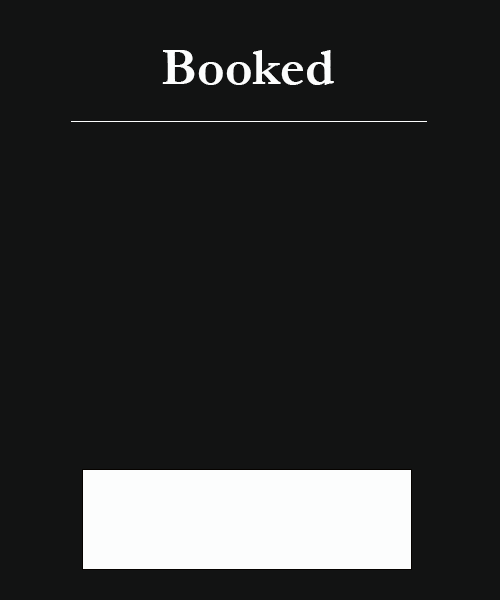
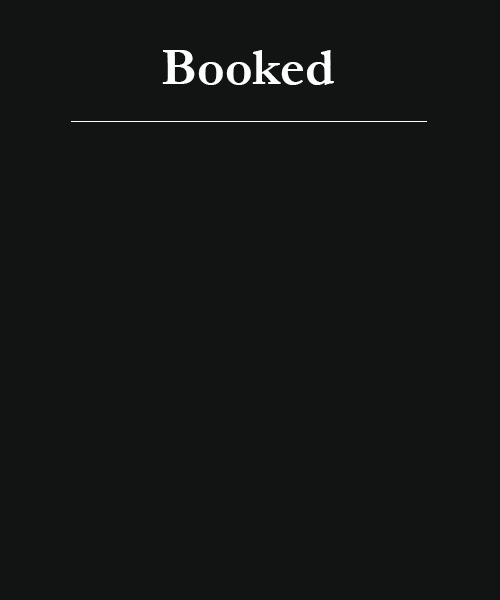
chased down some bugs and made progress on GUIs

Changed region(s): [[0.15, 0.78, 0.84, 0.96]]

diff --git a/OpenerGUI.java b/OpenerGUI.java
@@ -1,81 +1,68 @@
 import java.io.*;
-import java.util.concurrent.Flow;
 import java.awt.*;
 import java.awt.Image;
-import javax.imageio.ImageIO;
 import javax.swing.ImageIcon;
 import javax.swing.JFrame;
 import javax.swing.JLabel;
-import javax.swing.JPanel;
-import javax.swing.JSpinner;
 import javax.swing.JTextField;
-import javax.swing.JTextPane;
-
-import java.awt.Toolkit;
 
 public class OpenerGUI extends JFrame {
     String customerID = "#####";
     int timeBooked;
-    BookButton bookButton = new BookButton(this.customerID,this);
+    Customer customer = new Customer(customerID);
+    BookButton bookButton = new BookButton(this.customer, this, this);
     final ImageIcon backgroundIcon = new ImageIcon("PowerZoneOpenerScreen.png");
     Image backgroundImage = backgroundIcon.getImage();
-    Image background;
     JTextField textField = new JTextField("Here");
     JLabel myJLabel = new JLabel(backgroundIcon);
     File font_file = new File("DS-DIGI.TTF");
     Font digiFont = new Font("Serif", Font.PLAIN, 30);
-    Color fontColor = new Color(15,160,157);
+    Color fontColor = new Color(15, 160, 157);
     JTextField timeSelect = new JTextField("15");
 
-    private void setTextLocation(){
-        this.textField.setBounds(240,620,420,70);
+    private void setTextLocation() {
+        this.textField.setBounds(240, 620, 420, 70);
         this.textField.setOpaque(false);
         this.textField.setBorder(null);
         this.textField.setFont(digiFont);
         this.textField.setForeground(fontColor);
     }
 
-    private void setTextLocationTimeSelect(){
-        this.timeSelect.setSize(420,70);
+    private void setTextLocationTimeSelect() {
+        this.timeSelect.setSize(420, 70);
         this.timeSelect.setHorizontalAlignment(JTextField.CENTER);
-        this.timeSelect.setBounds(485,325,350,70);
+        this.timeSelect.setBounds(485, 325, 350, 70);
         this.timeSelect.setOpaque(false);
         this.timeSelect.setBorder(null);
         this.timeSelect.setFont(digiFont);
         this.timeSelect.setForeground(fontColor);
     }
-    
-
 
     public OpenerGUI() {
-        
-        
-        //myJLabel.setVisible(true);
+
         myJLabel.setIcon(backgroundIcon);
         this.setLayout(null);
         this.add(bookButton);
         textField.setFont(digiFont);
 
-        
         this.myJLabel.add(textField);
-        
+
         this.myJLabel.setLayout(null);
         setTextLocation();
 
         this.myJLabel.add(timeSelect);
         setTextLocationTimeSelect();
-        myJLabel.setBounds(0,0,1280,720);
-        
+        myJLabel.setBounds(0, 0, 1280, 720);
+
         bookButton.setBounds(515, 0, 300, 100);
         this.setVisible(true);
         this.setSize(1280, 720);
         this.setResizable(false);
         this.setDefaultCloseOperation(EXIT_ON_CLOSE);
         this.setLocationRelativeTo(null);
-       
+
         this.add(myJLabel);
         this.timeBooked = Integer.parseInt(timeSelect.getText());
-        
-        
+
     }
 }

diff --git a/Customer.java b/Customer.java
@@ -10,7 +10,10 @@ public class Customer {
     }
 
     public boolean validateCustomerID(String customerID) {
-        for (int i = 0; i < this.customerID.length(); i++) {
+        if (this.customerID.equals("#####")) {
+            return true;
+        }
+        for (int i = 0; i < 7; i++) {
             if (customerID.charAt(i) >= 'A' || customerID.charAt(i) <= 'Z') {
 
             }
@@ -19,26 +22,36 @@ public class Customer {
             }
             if (customerID.charAt(i) >= '0' || customerID.charAt(i) <= '9') {
 
-            } else {
+            }
+            if (customerID.charAt(i) == '-' && i == 1) {
+
+            }
+            if (customerID.charAt(i) == '-' && i == 4) {
+
+            }
+            if (customerID.charAt(i) == ' ') {
                 return false;
             }
         }
+        System.out.println("was valid");
         return true;
     }
 
     private void formatCustomerID() {
-        this.customerID = this.customerID.toUpperCase();
-        this.customerID = this.customerID.charAt(0) + "-" + this.customerID.substring(1, 3) + "-"
-                + this.customerID.charAt(4);
+        try {
+            this.customerID = this.customerID.toUpperCase();
+            this.customerID = this.customerID.charAt(0) + "-" + this.customerID.substring(1, 4) + "-"
+                    + this.customerID.charAt(4);
+        } catch (Exception e) {
+            ErrorGUI error = new ErrorGUI();
+            error.setVisible(true);
+        }
     }
 
     public Customer(String CustomerID) {
         this.customerID = CustomerID;
-        if (this.validateCustomerID(this.customerID) == false) {
-            ErrorGUI error = new ErrorGUI();
-            error.setVisible(true);
-        } else
-            this.formatCustomerID();
+        this.formatCustomerID();
+        System.out.println("formatted");
     }
 
 }

diff --git a/BookButton.java b/BookButton.java
@@ -6,28 +6,35 @@ import javax.swing.JFrame;
 public class BookButton extends JButton {
     private JFrame frame;
     static Icon icon = new ImageIcon("BookButton.png");
-    
 
-    public void book(Customer customer, JFrame frame) {
-        if (customer.validateCustomerID(customer.getCustomerID()) == true) {
-            BookedGUI booked = new BookedGUI();
-            booked.setVisible(true);
-            frame.setVisible(false);
-        }
+    public void book(String customerID, JFrame frame) {
 
-        else if (customer.validateCustomerID(customer.getCustomerID()) == false) {
+        Customer customer = new Customer(customerID);
+        System.out.println(customer.getCustomerID());
+        try {
+            if (customer.validateCustomerID(customer.getCustomerID()) == true) {
+                BookedGUI booked = new BookedGUI();
+                booked.setVisible(true);
+                frame.setVisible(false);
+            }
+
+            else if (customer.validateCustomerID(customer.getCustomerID()) == false) {
+                ErrorGUI error = new ErrorGUI();
+                error.setVisible(true);
+                frame.setVisible(false);
+                System.out.println("the bug is here");
+            }
+        } catch (Exception e) {
             ErrorGUI error = new ErrorGUI();
-            error.setVisible(true);
-            frame.setVisible(false);
         }
     }
 
-    public BookButton(String CustomerID, JFrame jFrame) {
+    public BookButton(Customer Customer, JFrame jFrame, OpenerGUI Opener) {
 
         super(icon);
-        Customer customer = new Customer(CustomerID);
+
         this.frame = jFrame;
-        this.addActionListener(e -> book(customer, frame));
+        this.addActionListener(e -> book(Opener.textField.getText(), frame));
         this.setSize(300, 200);
     }
 }

diff --git a/ErrorGUI.java b/ErrorGUI.java
@@ -1,8 +1,25 @@
+import javax.swing.ImageIcon;
 import javax.swing.JDialog;
 import javax.swing.JFrame;
+import javax.swing.JLabel;
 
 public class ErrorGUI extends JDialog {
-   // Jlabel image = new Jlabel(
+   ImageIcon background = new ImageIcon("ErrorPopUp.png");
+   JLabel image = new JLabel(background);
+   CancelButton cancelButton = new CancelButton(this);
+   ReturnButton returnButton = new ReturnButton(this);
 
-    
+   public ErrorGUI() {
+      super();
+      setResizable(false);
+      this.setVisible(false);
+      this.add(image);
+      this.setContentPane(image);
+      this.setSize(500, 600);
+      this.add(cancelButton);
+      cancelButton.setLocation(100, 100);
+      setDefaultCloseOperation(DISPOSE_ON_CLOSE);
+
+   }
+
 }

diff --git a/ReturnButton.java b/ReturnButton.java
@@ -1,24 +1,24 @@
+import javax.swing.Icon;
+import javax.swing.ImageIcon;
 import javax.swing.JButton;
 import javax.swing.JDialog;
 import javax.swing.JFrame;
 
-public class ReturnButton extends JButton{
-    
-    
+public class ReturnButton extends JButton {
 
-    public void press (JDialog frame) {
+    static Icon icon = new ImageIcon("RebookButton.png");
+
+    public void press(JDialog frame) {
         OpenerGUI window = new OpenerGUI();
         window.setVisible(true);
-        frame.setVisible(false);;
-        
+        frame.setVisible(false);
+
     }
 
-    
-
     public ReturnButton(JDialog frame) {
-        super();
+        super(icon);
         this.addActionListener(e -> press(frame));
-    
+
     }
 
 }

diff --git a/BookedGUI.java b/BookedGUI.java
@@ -7,12 +7,16 @@ public class BookedGUI extends JDialog {
     ImageIcon background = new ImageIcon("BookingPopUp.png");
     JLabel myJLabel = new JLabel(background);
     ReturnButton myReturnButton = new ReturnButton(this);
-    
+
     public BookedGUI() {
         this.setSize(500, 600);
         this.add(myJLabel);
-        this.add(myReturnButton);
-        myReturnButton.setBounds(100,100,100,300);
+        myJLabel.setVisible(true);
+        myJLabel.add(myReturnButton);
+        myReturnButton.setBounds(92, 120, 300, 100);
+        this.setLayout(null);
+        this.setContentPane(myJLabel);
+        this.setDefaultCloseOperation(JFrame.DISPOSE_ON_CLOSE);
 
     }
 

diff --git a/CancelButton.java b/CancelButton.java
@@ -1,0 +1,22 @@
+import javax.swing.ImageIcon;
+import javax.swing.JButton;
+import javax.swing.JDialog;
+import javax.swing.JFrame;
+
+public class CancelButton extends JButton {
+    private JDialog dialog;
+    private static ImageIcon icon = new ImageIcon("ExitButton.png");
+
+    private void press() {
+        this.dialog.dispose();
+        System.exit(0);
+    }
+
+    public CancelButton(JDialog dialog) {
+        super(icon);
+        this.dialog = dialog;
+        this.addActionListener(e -> press());
+        this.setSize(300, 100);
+
+    }
+}
